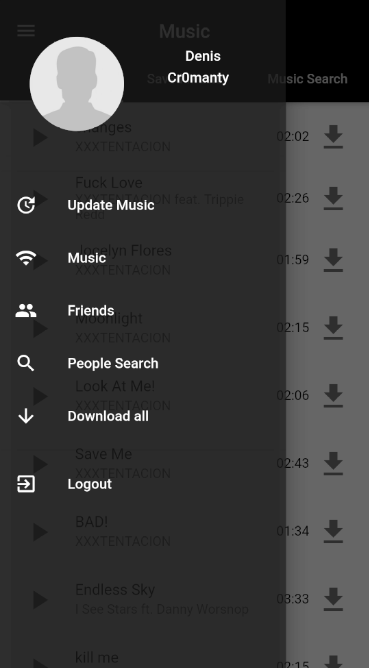
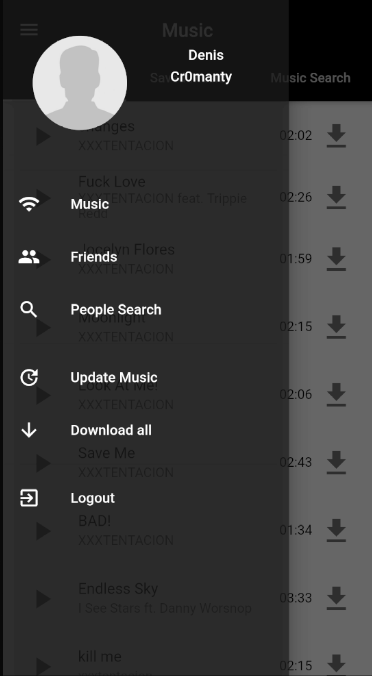
update readme

diff --git a/lib/widgets/AppBarDrawer.dart b/lib/widgets/AppBarDrawer.dart
@@ -94,28 +94,6 @@ class _AppBarDrawerState extends State<AppBarDrawer> {
                 ])),
                 new Divider(),
                 new ListTile(
-                  title: new Text('Update Music',
-                      style: TextStyle(fontSize: 15.0, color: Colors.white)),
-                  leading: new Icon(Icons.update, color: Colors.white),
-                  onTap: () async {
-                    try {
-                      _setUpdating();
-                      final listNewSong = await requestMusicListPost();
-                      if (listNewSong != null) {
-                        infoDialog(context, "New songs",
-                            "${listNewSong['added']} new songs.\n${listNewSong['updated']} updated songs.");
-                      } else {
-                        infoDialog(context, "Something went wrong",
-                            "Unable to get Music List.");
-                      }
-                    } catch (e) {
-                      print(e);
-                    } finally {
-                      _setUpdating();
-                    }
-                  },
-                ),
-                new ListTile(
                   title: new Text('Music',
                       style: TextStyle(fontSize: 15.0, color: Colors.white)),
                   leading: new Icon(Icons.wifi, color: Colors.white),
@@ -177,6 +155,29 @@ class _AppBarDrawerState extends State<AppBarDrawer> {
                                 newRouteName, (Route<dynamic> route) => false);
                           }
                         },
+                ),
+                new Divider(),
+                new ListTile(
+                  title: new Text('Update Music',
+                      style: TextStyle(fontSize: 15.0, color: Colors.white)),
+                  leading: new Icon(Icons.update, color: Colors.white),
+                  onTap: () async {
+                    try {
+                      _setUpdating();
+                      final listNewSong = await requestMusicListPost();
+                      if (listNewSong != null) {
+                        infoDialog(context, "New songs",
+                            "${listNewSong['added']} new songs.\n${listNewSong['updated']} updated songs.");
+                      } else {
+                        infoDialog(context, "Something went wrong",
+                            "Unable to get Music List.");
+                      }
+                    } catch (e) {
+                      print(e);
+                    } finally {
+                      _setUpdating();
+                    }
+                  },
                 ),
                 new ListTile(
                   title: new Text('Download all',

diff --git a/lib/ui/Login.dart b/lib/ui/Login.dart
@@ -198,8 +198,7 @@ class LoginState extends State<Login> {
 
   _loginPressed() async {
     _setButtonStatus();
-    // final login = await requestLogin(_username, _password);
-    final login = await requestLogin('380501751678', 'killerGun1337');
+    final login = await requestLogin(_username, _password);
     if (login != null) {
       final newRouteName = "/MusicList";
       bool isNewRouteSameAsCurrent = false;

diff --git a/README.md b/README.md
@@ -1,3 +1,27 @@
 # VK Music App
 
 Parse music from VK and show in app
+
+## UI preview
+1. Intro page is designed to perform basic
+ addressing of pages and determine user authorization.
+ <br>
+ ![](images/intro.png)
+ 
+2. Auth page is required for authorization and for registering a new user.
+<br>
+![](images/login.png) ![](images/reg.png)
+
+3. The application also has an App Bar Menu, in which you can switch between pages 
+and update the list of tracks or download all the tracks that have already been 
+associated with the user account. Also, a little data about the user is displayed on top
+(picture, first name and last name).
+<br>
+![](images/appbar_menu.png)
+
+4. The Music page has 3 tabs. The first tab is responsible for the list of music that has been 
+added to the application server and receives it using the request API. 
+The second displays a list of already downloaded songs.
+The third, in turn, exists to search for tracks among all existing ones (To be added later).
+<br>
+![](images/musiclist.png)
